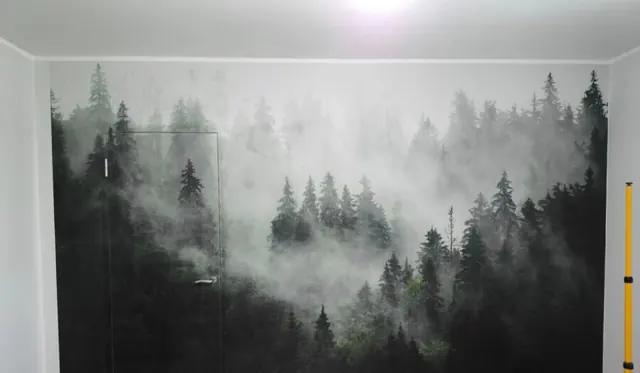
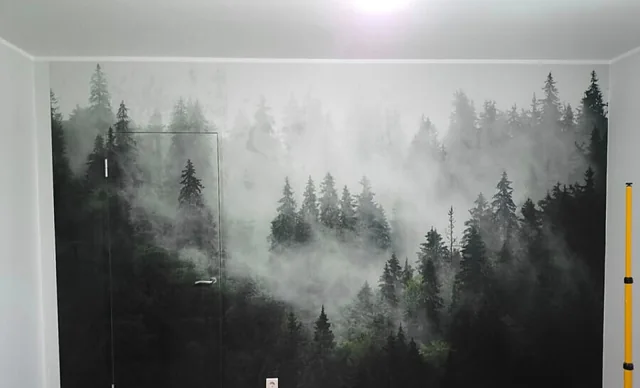
Teravamad galeriipildid ja klõpsuga suurendus
- vesimärgi lõige 76 px asemel 56 px, logo ja embleem jäävad alumise 52 px sisse
- galeriipildid 900 px laiad, kvaliteet 84, kerge teravustus
- galerii fotod avanevad dialoogis suurelt: nooled, libistamine, Esc
- README: hange.ee jagab ainult 300 ja 900 px versiooni

diff --git a/public/index.html b/public/index.html
@@ -189,7 +189,7 @@
         <img src="/pildid/fototapeet-metsamotiiviga-elutoas.webp"
              srcset="/pildid/fototapeet-metsamotiiviga-elutoas-640.webp 640w, /pildid/fototapeet-metsamotiiviga-elutoas.webp 900w"
              sizes="(max-width: 900px) 92vw, 46vw"
-             width="900" height="525" fetchpriority="high" decoding="async"
+             width="900" height="545" fetchpriority="high" decoding="async"
              alt="Elutoa seinal udune metsamotiiviga fototapeet ja selle kõrval värskelt värvitud hele sein.">
       </div>
     </div>
@@ -239,16 +239,16 @@
       <p class="sissejuhatus">Fotod on meie enda objektidelt. Osa piltidest on enne ja pärast võrdlused, sest viimistluse ja puhastuse töö ongi kõige paremini näha vahet vaadates.</p>
 
       <div class="galerii">
-        <figure><img src="/pildid/fototapeet-ornamendiga-magamistoas.webp" width="800" height="473" loading="lazy" decoding="async" alt="Magamistoa seinal hallis toonis ornamendimustriga fototapeet ja lae all must kroonlühter."></figure>
-        <figure><img src="/pildid/korteri-remont-enne-ja-parast.webp" width="800" height="999" loading="lazy" decoding="async" alt="Enne ja pärast võrdlus korteri remondist: punase seinaviimistluse asemel on hele sein ja uus põrand."></figure>
-        <figure><img src="/pildid/fototapeet-lastetoa-seinal.webp" width="800" height="616" loading="lazy" decoding="async" alt="Lastetoa seinal värviline joonistatud linnamotiiviga fototapeet ja selle ees valge töölaud."></figure>
-        <figure><img src="/pildid/maalritood-enne-ja-parast.webp" width="800" height="999" loading="lazy" decoding="async" alt="Neljast fotost koosnev võrdlus maalritöödest: lagi ja seinad enne pahteldamist ning pärast värvimist."></figure>
-        <figure><img src="/pildid/varvitud-seinte-ja-laega-tuba.webp" width="800" height="732" loading="lazy" decoding="async" alt="Heledaks värvitud seinte ja laega tuba, ukseavast paistab köök."></figure>
-        <figure><img src="/pildid/toa-ettevalmistus-varvimiseks.webp" width="800" height="1646" loading="lazy" decoding="async" alt="Värvimiseks ette valmistatud tuba, põrand on kaetud kaitsekattega ja keskel seisavad värvinõud."></figure>
-        <figure><img src="/pildid/seinakarkass-korteri-remondil.webp" width="800" height="732" loading="lazy" decoding="async" alt="Pooleliolev korteri remont, ruumi jagab puidust seinakarkass ja põrandal on puitplaadid."></figure>
-        <figure><img src="/pildid/vannitoa-puhastus-enne-ja-parast.webp" width="800" height="999" loading="lazy" decoding="async" alt="Enne ja pärast võrdlus vannitoa puhastusest: määrdunud nurga asemel on puhtad heledad plaadid."></figure>
-        <figure><img src="/pildid/koristatud-koogi-tooplaan.webp" width="800" height="1354" loading="lazy" decoding="async" alt="Koristatud köök, puidust tööpind on tühi ja puhas ning põrandal seisab koristusämber."></figure>
-        <figure><img src="/pildid/puhastatud-aken-parast-remonti.webp" width="800" height="1354" loading="lazy" decoding="async" alt="Pärast remonti puhastatud puitraamis aken ja selle all valge radiaator."></figure>
+        <figure><a class="galerii-link" href="/pildid/fototapeet-ornamendiga-magamistoas.webp"><img src="/pildid/fototapeet-ornamendiga-magamistoas.webp" width="899" height="551" loading="lazy" decoding="async" alt="Magamistoa seinal hallis toonis ornamendimustriga fototapeet ja lae all must kroonlühter."></a></figure>
+        <figure><a class="galerii-link" href="/pildid/korteri-remont-enne-ja-parast.webp"><img src="/pildid/korteri-remont-enne-ja-parast.webp" width="900" height="1144" loading="lazy" decoding="async" alt="Enne ja pärast võrdlus korteri remondist: punase seinaviimistluse asemel on hele sein ja uus põrand."></a></figure>
+        <figure><a class="galerii-link" href="/pildid/fototapeet-lastetoa-seinal.webp"><img src="/pildid/fototapeet-lastetoa-seinal.webp" width="899" height="712" loading="lazy" decoding="async" alt="Lastetoa seinal värviline joonistatud linnamotiiviga fototapeet ja selle ees valge töölaud."></a></figure>
+        <figure><a class="galerii-link" href="/pildid/maalritood-enne-ja-parast.webp"><img src="/pildid/maalritood-enne-ja-parast.webp" width="900" height="1144" loading="lazy" decoding="async" alt="Neljast fotost koosnev võrdlus maalritöödest: lagi ja seinad enne pahteldamist ning pärast värvimist."></a></figure>
+        <figure><a class="galerii-link" href="/pildid/varvitud-seinte-ja-laega-tuba.webp"><img src="/pildid/varvitud-seinte-ja-laega-tuba.webp" width="900" height="844" loading="lazy" decoding="async" alt="Heledaks värvitud seinte ja laega tuba, ukseavast paistab köök."></a></figure>
+        <figure><a class="galerii-link" href="/pildid/toa-ettevalmistus-varvimiseks.webp"><img src="/pildid/toa-ettevalmistus-varvimiseks.webp" width="900" height="1872" loading="lazy" decoding="async" alt="Värvimiseks ette valmistatud tuba, põrand on kaetud kaitsekattega ja keskel seisavad värvinõud."></a></figure>
+        <figure><a class="galerii-link" href="/pildid/seinakarkass-korteri-remondil.webp"><img src="/pildid/seinakarkass-korteri-remondil.webp" width="900" height="844" loading="lazy" decoding="async" alt="Pooleliolev korteri remont, ruumi jagab puidust seinakarkass ja põrandal on puitplaadid."></a></figure>
+        <figure><a class="galerii-link" href="/pildid/vannitoa-puhastus-enne-ja-parast.webp"><img src="/pildid/vannitoa-puhastus-enne-ja-parast.webp" width="900" height="1144" loading="lazy" decoding="async" alt="Enne ja pärast võrdlus vannitoa puhastusest: määrdunud nurga asemel on puhtad heledad plaadid."></a></figure>
+        <figure><a class="galerii-link" href="/pildid/koristatud-koogi-tooplaan.webp"><img src="/pildid/koristatud-koogi-tooplaan.webp" width="899" height="1542" loading="lazy" decoding="async" alt="Koristatud köök, puidust tööpind on tühi ja puhas ning põrandal seisab koristusämber."></a></figure>
+        <figure><a class="galerii-link" href="/pildid/puhastatud-aken-parast-remonti.webp"><img src="/pildid/puhastatud-aken-parast-remonti.webp" width="899" height="1542" loading="lazy" decoding="async" alt="Pärast remonti puhastatud puitraamis aken ja selle all valge radiaator."></a></figure>
       </div>
     </div>
   </section>

diff --git a/public/skript.js b/public/skript.js
@@ -1,4 +1,5 @@
-/* VP Viimistlus ja Puhastus OÜ. Kaks asja: mobiilimenüü ja video käivitamine. */
+/* VP Viimistlus ja Puhastus OÜ. Kolm asja: mobiilimenüü, galerii suurendus
+   ja video käivitamine. */
 
 (function () {
   "use strict";
@@ -27,6 +28,90 @@
         seaMenuu(false);
         nupp.focus();
       }
+    });
+  }
+
+  /* Galerii fotod avanevad klõpsuga suurelt. Ilma skriptita avab link
+     lihtsalt pildifaili, nii et midagi ei jää kättesaamatuks. */
+  var lingid = Array.prototype.slice.call(document.querySelectorAll(".galerii-link"));
+
+  if (lingid.length && typeof HTMLDialogElement === "function") {
+    var aken = document.createElement("dialog");
+    aken.className = "suurendus";
+    aken.setAttribute("aria-label", "Foto suurelt");
+    aken.innerHTML =
+      '<figure class="suurendus-sisu">' +
+        '<img class="suurendus-pilt" alt="">' +
+        '<figcaption class="suurendus-tekst"></figcaption>' +
+      '</figure>' +
+      '<p class="suurendus-loendur" aria-live="polite"></p>' +
+      '<button type="button" class="suurendus-nupp suurendus-eelmine" aria-label="Eelmine foto">‹</button>' +
+      '<button type="button" class="suurendus-nupp suurendus-jargmine" aria-label="Järgmine foto">›</button>' +
+      '<button type="button" class="suurendus-nupp suurendus-sulge" aria-label="Sulge">×</button>';
+    document.body.appendChild(aken);
+
+    var suurPilt = aken.querySelector(".suurendus-pilt");
+    var allkiri = aken.querySelector(".suurendus-tekst");
+    var loendur = aken.querySelector(".suurendus-loendur");
+    var praegune = 0;
+
+    var naita = function (i) {
+      praegune = (i + lingid.length) % lingid.length;
+      var link = lingid[praegune];
+      var eelvaade = link.querySelector("img");
+      suurPilt.setAttribute("width", eelvaade.getAttribute("width"));
+      suurPilt.setAttribute("height", eelvaade.getAttribute("height"));
+      suurPilt.src = link.getAttribute("href");
+      suurPilt.alt = eelvaade.alt;
+      allkiri.textContent = eelvaade.alt;
+      loendur.textContent = (praegune + 1) + " / " + lingid.length;
+    };
+
+    /* Sulgemisel jääb fookus viimati vaadatud fotole galeriis. Fookus
+       pannakse kohe pärast close() kutset, sest brauser taastab selle
+       muidu avamiseelsele kohale. */
+    var sulge = function () {
+      aken.close();
+      lingid[praegune].focus();
+    };
+
+    lingid.forEach(function (link, i) {
+      link.addEventListener("click", function (sundmus) {
+        if (sundmus.ctrlKey || sundmus.metaKey || sundmus.shiftKey || sundmus.button !== 0) return;
+        sundmus.preventDefault();
+        naita(i);
+        aken.showModal();
+      });
+    });
+
+    aken.addEventListener("click", function (sundmus) {
+      var sihtmark = sundmus.target;
+      if (sihtmark.closest(".suurendus-eelmine")) naita(praegune - 1);
+      else if (sihtmark.closest(".suurendus-jargmine")) naita(praegune + 1);
+      else if (sihtmark.closest(".suurendus-sulge") || sihtmark === aken ||
+               sihtmark.classList.contains("suurendus-sisu")) sulge();
+    });
+
+    aken.addEventListener("keydown", function (sundmus) {
+      if (sundmus.key === "ArrowLeft") naita(praegune - 1);
+      else if (sundmus.key === "ArrowRight") naita(praegune + 1);
+      else if (sundmus.key === "Escape") {
+        /* Brauser sulgeb dialoogi ise, aga kõik ei tee seda usaldusväärselt. */
+        sundmus.preventDefault();
+        sulge();
+      }
+    });
+
+    /* Telefonis vahetab pilti sõrmega libistamine. */
+    var algusX = null;
+    aken.addEventListener("touchstart", function (sundmus) {
+      algusX = sundmus.touches.length === 1 ? sundmus.touches[0].clientX : null;
+    }, { passive: true });
+    aken.addEventListener("touchend", function (sundmus) {
+      if (algusX === null) return;
+      var vahe = sundmus.changedTouches[0].clientX - algusX;
+      algusX = null;
+      if (Math.abs(vahe) > 50) naita(praegune + (vahe < 0 ? 1 : -1));
     });
   }
 

diff --git a/public/stiil.css b/public/stiil.css
@@ -305,6 +305,91 @@ a:hover { text-decoration-thickness: 2px; }
   background: #e9e7ee;
 }
 
+.galerii-link {
+  display: block;
+  border-radius: 12px;
+  cursor: zoom-in;
+}
+.galerii-link img { transition: border-color 0.2s ease, filter 0.2s ease; }
+.galerii-link:hover img {
+  border-color: var(--roosa);
+  filter: brightness(1.04);
+}
+
+/* --- galerii suurendus --- */
+
+.suurendus {
+  width: 100vw;
+  height: 100dvh;
+  max-width: none;
+  max-height: none;
+  margin: 0;
+  padding: 0;
+  border: 0;
+  background: rgba(11, 14, 20, 0.95);
+  color: #eceef4;
+  overflow-y: auto;
+  --fookus: var(--roosa);
+}
+.suurendus[open] { display: grid; place-items: center; }
+.suurendus::backdrop { background: rgba(11, 14, 20, 0.6); }
+html:has(.suurendus[open]) { overflow: hidden; }
+
+.suurendus-sisu {
+  margin: 0;
+  display: flex;
+  flex-direction: column;
+  align-items: center;
+  gap: 0.75rem;
+  max-width: 100%;
+  padding: 3.75rem 5rem 1.5rem;
+}
+
+.suurendus-pilt {
+  width: auto;
+  max-width: 100%;
+  max-height: calc(100dvh - 9.5rem);
+  border-radius: 8px;
+  background: #1a1e29;
+}
+
+.suurendus-tekst {
+  max-width: 46rem;
+  text-align: center;
+  font-size: 0.9375rem;
+  color: #b9bcc9;
+}
+
+.suurendus-loendur {
+  position: absolute;
+  top: 1.35rem;
+  left: 1.25rem;
+  margin: 0;
+  font-size: 0.875rem;
+  color: #b9bcc9;
+}
+
+.suurendus-nupp {
+  position: absolute;
+  width: 48px;
+  height: 48px;
+  padding: 0;
+  border: 1px solid #3a3f52;
+  border-radius: 50%;
+  background: rgba(255, 255, 255, 0.08);
+  color: #fff;
+  font: inherit;
+  font-size: 1.75rem;
+  line-height: 1;
+  cursor: pointer;
+}
+.suurendus-nupp:hover { background: var(--roosa); border-color: var(--roosa); }
+.suurendus-sulge { top: 0.75rem; right: 0.75rem; }
+.suurendus-eelmine,
+.suurendus-jargmine { top: 50%; transform: translateY(-50%); }
+.suurendus-eelmine { left: 1rem; }
+.suurendus-jargmine { right: 1rem; }
+
 /* --- video --- */
 
 .lahter-video { scroll-margin-top: calc(var(--pais-korgus) + 1rem); }
@@ -479,6 +564,12 @@ a:hover { text-decoration-thickness: 2px; }
   .raam { width: min(var(--raam-laius), 100% - 2rem); }
   .teenusruut { grid-template-columns: minmax(0, 1fr); }
   .galerii { columns: 1; }
+  .suurendus-sisu { padding: 3.75rem 0.75rem 5.5rem; }
+  .suurendus-pilt { max-height: calc(100dvh - 15rem); }
+  .suurendus-eelmine,
+  .suurendus-jargmine { top: auto; bottom: 1rem; transform: none; }
+  .suurendus-eelmine { left: calc(50% - 60px); }
+  .suurendus-jargmine { right: calc(50% - 60px); }
   .hero-nupud .nupp { flex: 1 1 100%; text-align: center; }
 }
 

diff --git a/ehita.py b/ehita.py
@@ -7,15 +7,17 @@ Skript on korratav: kaks käivitust annavad baidi pealt sama tulemuse.
 Kasutus:  python3 ehita.py
 """
 
-from PIL import Image, ImageDraw, ImageOps
+from PIL import Image, ImageDraw, ImageFilter, ImageOps
 from pathlib import Path
 
 LAHE = Path("lahtematerjal")
 VALJUND = Path("public/pildid")
 
-# Hange.ee lisab oma vaates igale pildile alumisse serva vesimärgi.
-# See riba lõigatakse maha, sest kliendi enda lehele see ei kuulu.
-VESIMARK_KORGUS = 76
+# Hange.ee lisab oma vaates igale pildile alumisse serva vesimärgi:
+# vasakule "Hange.ee" logo ja paremale firma embleemi. Mõlemad jäävad
+# alumise 52 piksli sisse, 4 pikslit on varuks. Riba lõigatakse maha,
+# sest kliendi enda lehele see ei kuulu.
+VESIMARK_KORGUS = 56
 
 TUME = (11, 14, 20)
 ROOSA = (233, 91, 149)
@@ -24,16 +26,16 @@ VALGE = (255, 255, 255)
 # lähtefail, väljundnimi, maksimumlaius
 GALERII = [
     ("siseviimistlustood-71611", "fototapeet-metsamotiiviga-elutoas", 900),
-    ("siseviimistlustood-71610", "fototapeet-ornamendiga-magamistoas", 800),
-    ("korterite-remont-71612", "korteri-remont-enne-ja-parast", 800),
-    ("maalritood-71605", "toa-ettevalmistus-varvimiseks", 800),
-    ("siseviimistlustood-71609", "fototapeet-lastetoa-seinal", 800),
-    ("maalritood-71602", "maalritood-enne-ja-parast", 800),
-    ("korterite-remont-71604", "varvitud-seinte-ja-laega-tuba", 800),
-    ("korterite-remont-71603", "seinakarkass-korteri-remondil", 800),
-    ("puhastusteenused-71592", "vannitoa-puhastus-enne-ja-parast", 800),
-    ("puhastusteenused-71600", "koristatud-koogi-tooplaan", 800),
-    ("puhastusteenused-71601", "puhastatud-aken-parast-remonti", 800),
+    ("siseviimistlustood-71610", "fototapeet-ornamendiga-magamistoas", 900),
+    ("korterite-remont-71612", "korteri-remont-enne-ja-parast", 900),
+    ("maalritood-71605", "toa-ettevalmistus-varvimiseks", 900),
+    ("siseviimistlustood-71609", "fototapeet-lastetoa-seinal", 900),
+    ("maalritood-71602", "maalritood-enne-ja-parast", 900),
+    ("korterite-remont-71604", "varvitud-seinte-ja-laega-tuba", 900),
+    ("korterite-remont-71603", "seinakarkass-korteri-remondil", 900),
+    ("puhastusteenused-71592", "vannitoa-puhastus-enne-ja-parast", 900),
+    ("puhastusteenused-71600", "koristatud-koogi-tooplaan", 900),
+    ("puhastusteenused-71601", "puhastatud-aken-parast-remonti", 900),
 ]
 
 HERO = "fototapeet-metsamotiiviga-elutoas"
@@ -43,10 +45,13 @@ def ava(nimi):
     tee = LAHE / f"vp-viimistlus-ja-puhastus-{nimi}.jpg"
     pilt = ImageOps.exif_transpose(Image.open(tee)).convert("RGB")
     laius, korgus = pilt.size
-    return pilt.crop((0, 0, laius, korgus - VESIMARK_KORGUS))
+    pilt = pilt.crop((0, 0, laius, korgus - VESIMARK_KORGUS))
+    # Hange.ee on pildid korduvalt JPEG-iks pakkinud ja need on pehmed.
+    # Kerge teravustus toob servad tagasi, suurem tekitaks halosid.
+    return pilt.filter(ImageFilter.UnsharpMask(radius=1.2, percent=55, threshold=2))
 
 
-def salvesta(pilt, nimi, max_laius, kvaliteet=78):
+def salvesta(pilt, nimi, max_laius, kvaliteet=84):
     """Uut Image objekti salvestades kaob EXIF ja sellega ka GPS."""
     if pilt.width > max_laius:
         korgus = round(pilt.height * max_laius / pilt.width)

diff --git a/README.md b/README.md
@@ -9,7 +9,7 @@ Majutus Cloudflare Workeri peal.
       index.html       kogu leht
       404.html         veateade
       stiil.css        kogu kujundus
-      skript.js        mobiilimenüü ja video käivitamine
+      skript.js        mobiilimenüü, galerii suurendus ja video käivitamine
       pildid/          WebP fotod, ornament ja jagamispilt
       fondid/          Plus Jakarta Sans, majutatud koos lehega
       _headers         turvapäised ja vahemälu
@@ -33,8 +33,10 @@ Majutus Cloudflare Workeri peal.
    sitemap.xml.
 
 2. **Fotod.** Kõik pildid on võetud firma hange.ee profiililt. Portaal lisab
-   igale pildile oma vesimärgi, `ehita.py` lõikab selle alumise 76 piksliga
-   maha. Lähtefailid on seetõttu madalama kvaliteediga kui originaalid.
+   igale pildile oma vesimärgi, `ehita.py` lõikab selle alumise 56 piksliga
+   maha ja teravustab pilte kergelt. Hange.ee jagab avalikult ainult 300 px
+   (`thumb`) ja 900 px (`large`) versiooni, originaalid seal kättesaadavad
+   ei ole. 900 px ongi lehe fotode ülempiir.
    **Küsi kliendilt originaalfotod telefonist**, pane need `lahtematerjal/`
    kausta ja jooksuta `python3 ehita.py` uuesti. Siis kaob vajadus lõikamise
    järele ja pildid lähevad teravamaks.
